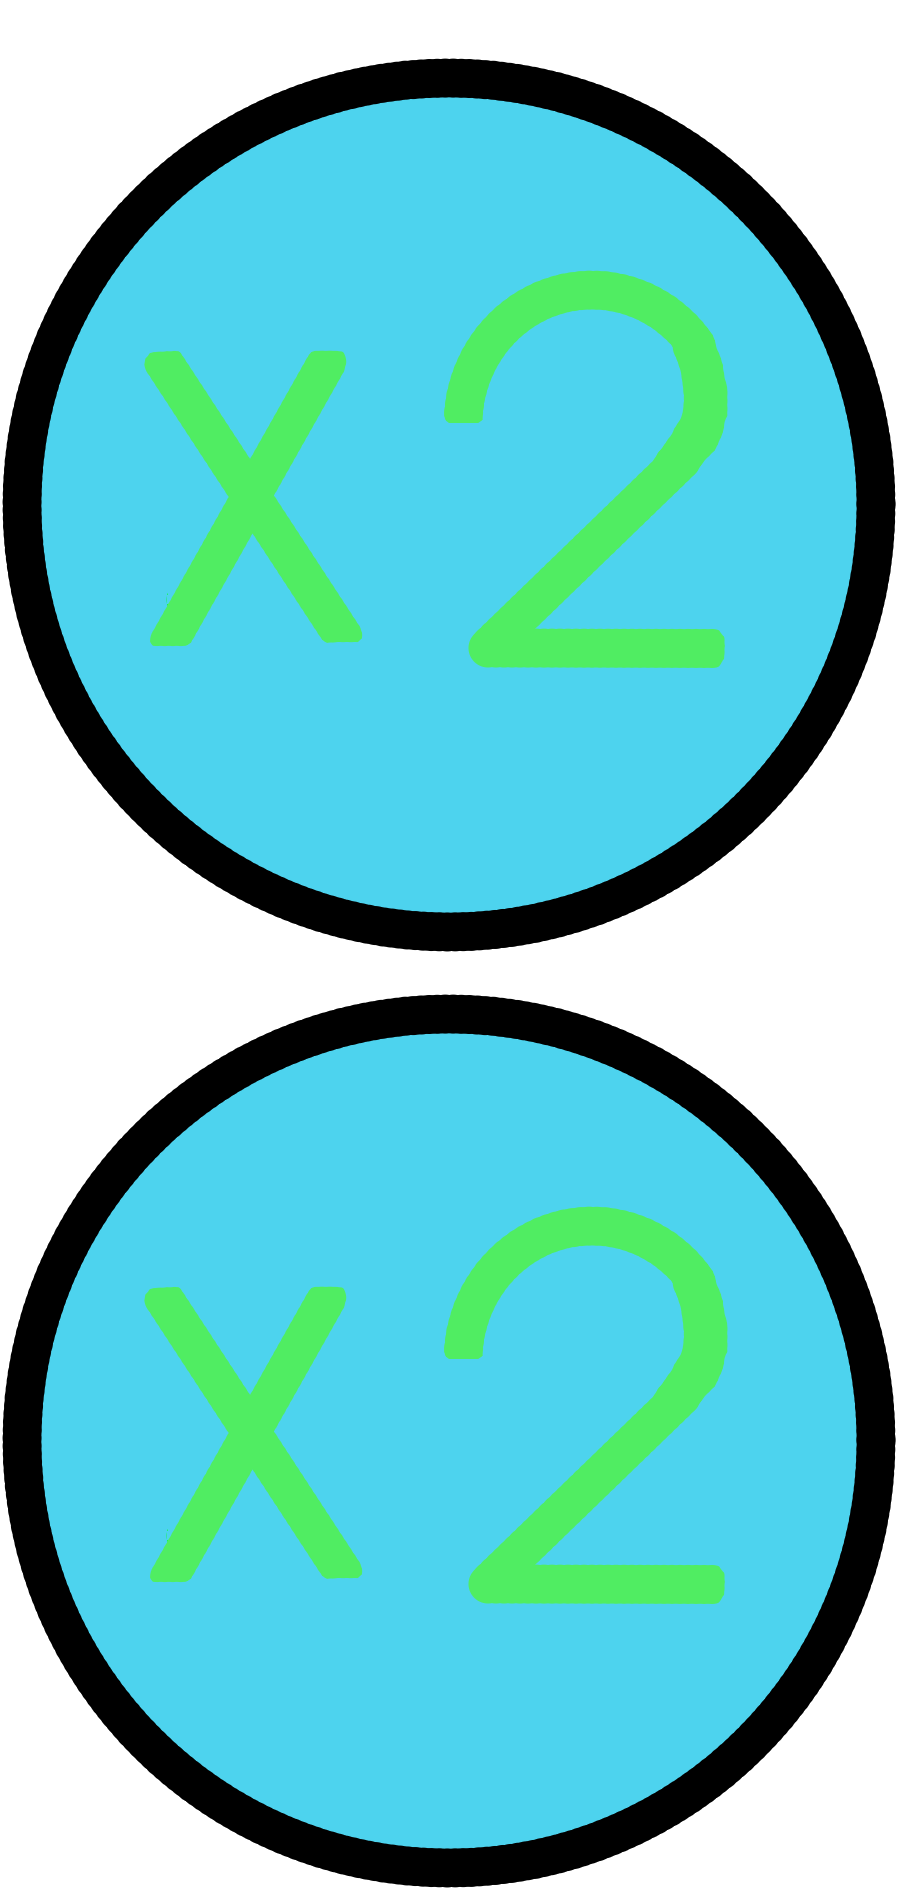
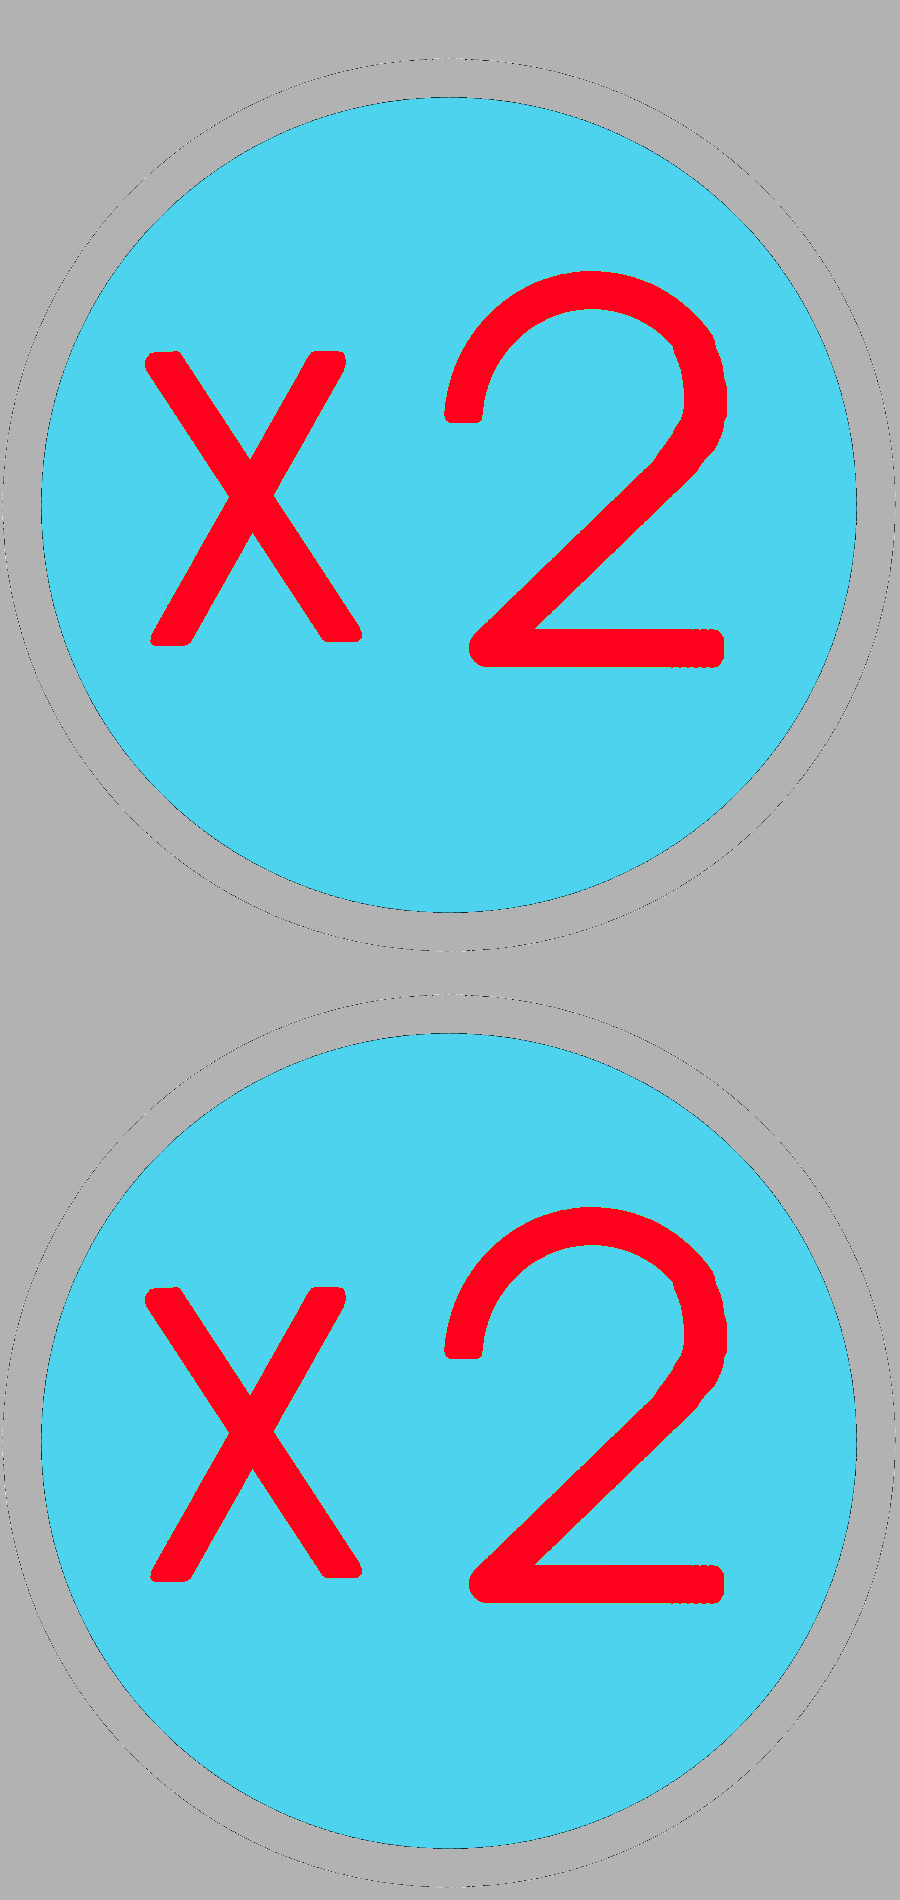
minor aesthetic tweaks

diff --git a/Block.cpp b/Block.cpp
@@ -185,13 +185,23 @@ void Block::Collide(Collision col) {
                 
 
                 if (--hp >= 0) {
-                    color -= glm::vec4(.3f, .3f, .3f, .0f);
+                    color -= glm::vec4(.5f, .5f, .5f, .0f);
 
                 }
                 else if (hp == -1) {
                     grid->removeBlock(cell.x, cell.y);
-                    Powerup* pUp = new Powerup(1);
-                    pUp->translate(pos);
+                    if (!spawned) {
+                        spawned = true;
+                        Powerup* pUp = new Powerup(1);
+                        pUp->translate(pos);
+                    }
+                    else {
+                        if (rand() % 3 == 0) {
+                            Powerup* pUp = new Powerup(1);
+                            pUp->translate(pos);
+                        }
+                    }
+
 
                 }
             }

diff --git a/Powerup.cpp b/Powerup.cpp
@@ -15,6 +15,7 @@ void Powerup::Draw() {
 	mMatrix = glm::mat4(1.0f);
 	mMatrix = glm::translate(mMatrix, pos);
 	mMatrix = glm::rotate(mMatrix, 3.14159265358979f / 2, glm::vec3(1.0f, .0f, .0f));
+	mMatrix = glm::rotate(mMatrix, myTimer, glm::vec3(.0f, .0f, 1.0f));
 	mMatrix = glm::scale(mMatrix, glm::vec3(0.5f));
 
 
@@ -27,4 +28,5 @@ void Powerup::Draw() {
 
 void Powerup::Update() {
 	pos.y -= .1f;
+	myTimer += MyTimer::getInstance().getDeltaTime();
 }

diff --git a/Powerup.h b/Powerup.h
@@ -2,12 +2,14 @@
 #include "CollisionManager.h"
 #include "Model.h"
 #include "ShaderCollection.h"
+#include "MyTimer.h"
 class Powerup :public UD {
 private:
 	Model* ourModel;
 	glm::mat4 mMatrix;
 	Shader* shader;
 	int type = 0;
+	float myTimer = 0;
 
 public:
 	Powerup(int type);

diff --git a/Block.h b/Block.h
@@ -13,10 +13,12 @@ private:
 	glm::mat4 model;
 	Model* ourModel;
 	Shader* shader;
-	int hp = 2;
+	int hp = 1;
 	glm::vec4 color = glm::vec4(1.0f, 1.0f, 1.0f,1.0f);
 	BlockGrid* grid;
 	glm::vec2 cell;
+
+	float spawned = false;
 
 public:
 	Block(BlockGrid*);

diff --git a/CollisionManager.cpp b/CollisionManager.cpp
@@ -1,8 +1,7 @@
 #pragma once
 #pragma once
 #include "CollisionManager.h"
-#include <unordered_map>
-#include <unordered_set>
+
 
 // ------------------------------------------------------------------
 // Spatial hash grid for broad-phase collision culling.
